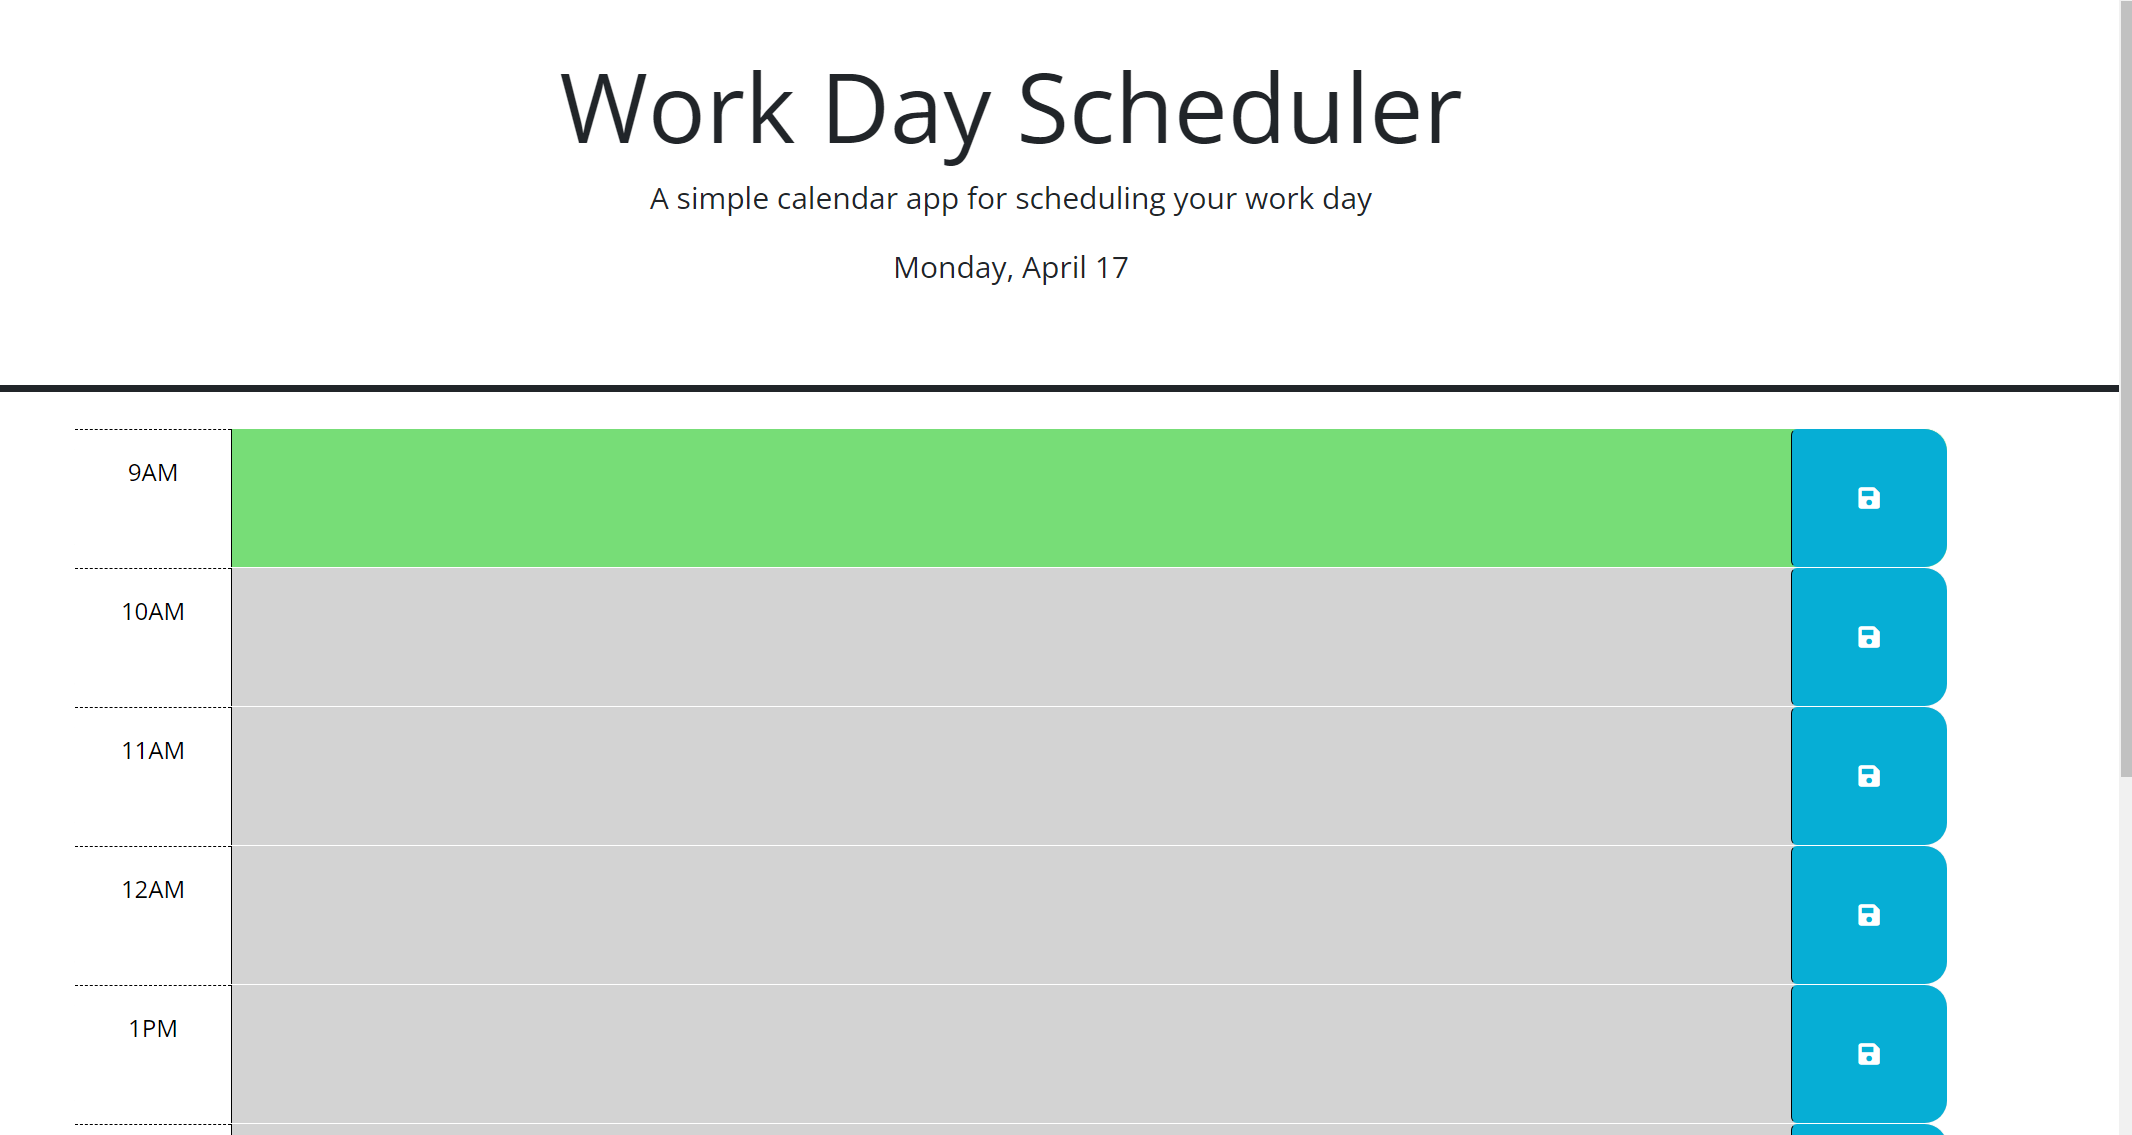
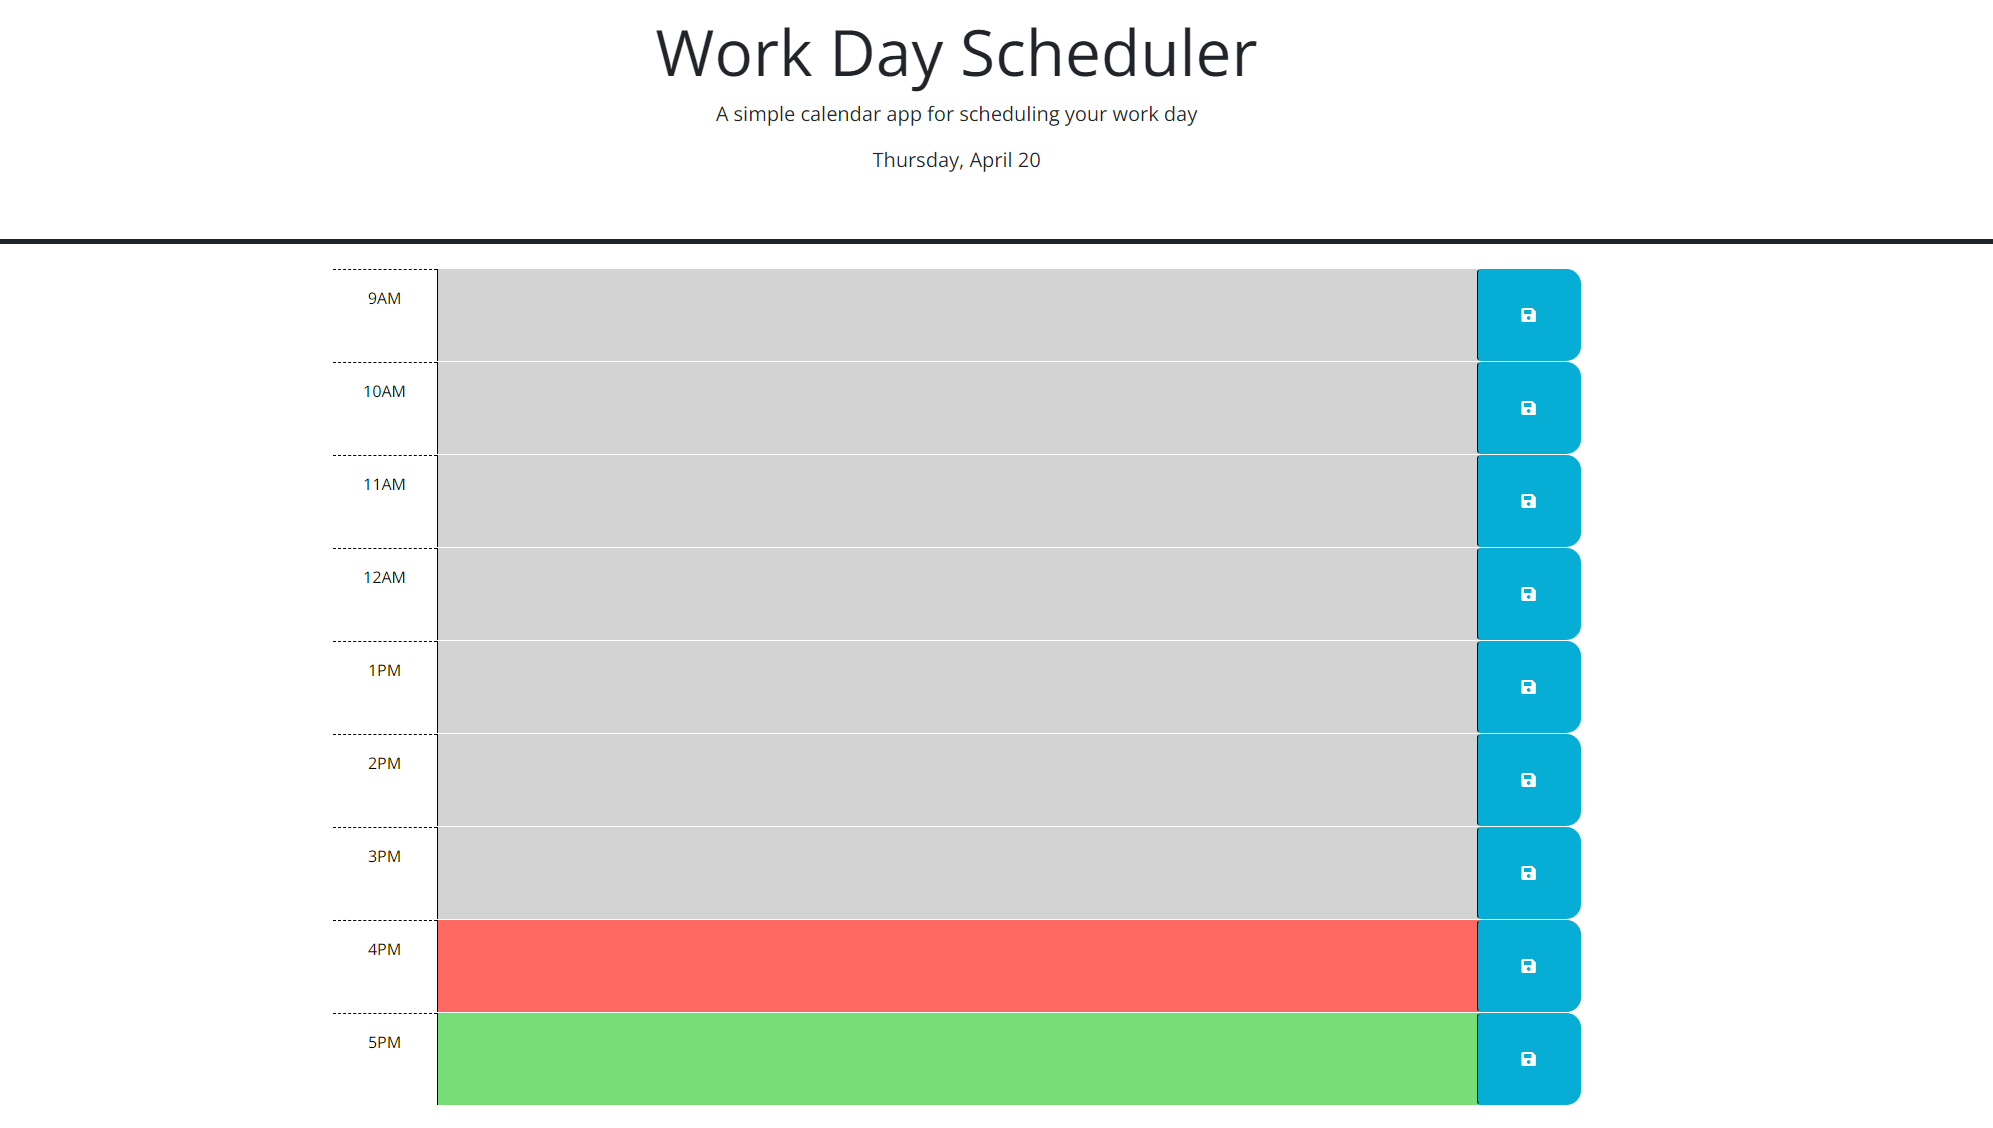
update screen shot

diff --git a/README.md b/README.md
@@ -4,7 +4,7 @@
 
 ## Description
 
-This Work-Day-Scheduler application aims to assist scheduling tasks for each hour from 9am to 5 pm. 
+This Work-Day-Scheduler application aims to assist scheduling tasks for each hour from 9am to 5 pm. Green, red or grey color represents future, present or past events.
 
 ## Technologies Used
 
